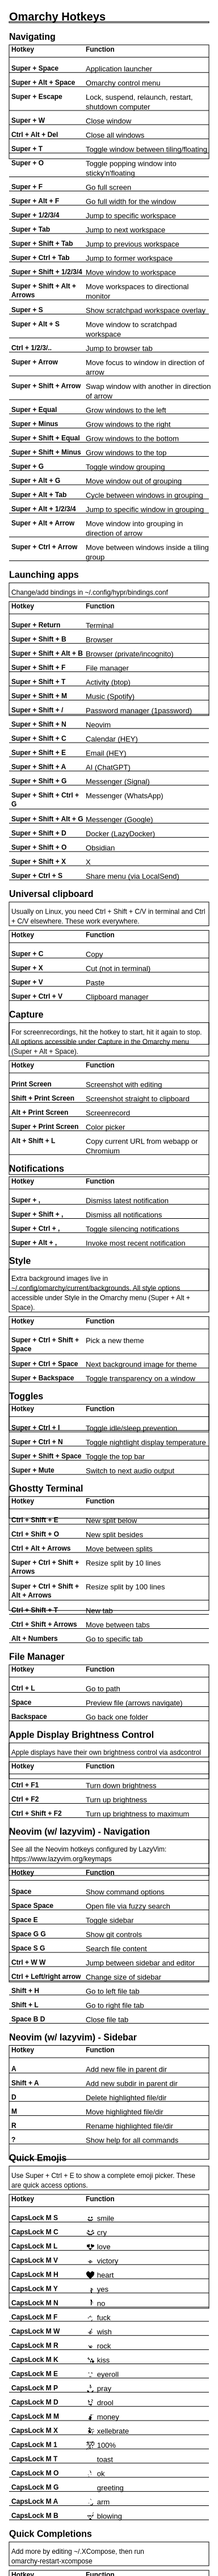
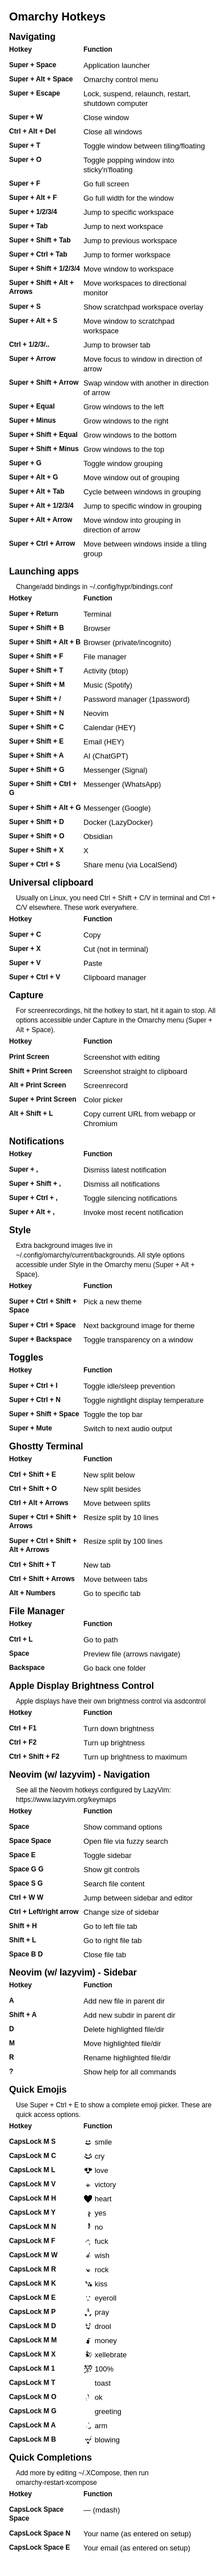
refactor: Simplify PNG layout with whitespace instead of borders
- Remove table borders and header separator lines
- Remove note box borders
- Use indentation and spacing for visual hierarchy
- Cleaner, more minimalist design while maintaining readability

Changed region(s): [[0.0312, 0.0, 0.9688, 1.0], [0.9375, 0.2182, 0.9688, 0.2806]]

diff --git a/scripts/generate-png.ts b/scripts/generate-png.ts
@@ -156,9 +156,7 @@ async function generateCheatsheetPNG(
   // Title
   renderCtx.font = `bold ${FONT_SIZE_TITLE}px ${FONT_FAMILY}`;
   renderCtx.fillText(metadata.title, PADDING, y + FONT_SIZE_TITLE);
-  y += FONT_SIZE_TITLE * LINE_HEIGHT;
-  renderCtx.strokeRect(PADDING, y - 4, contentWidth, 2);
-  y += 12;
+  y += FONT_SIZE_TITLE * LINE_HEIGHT + 12;
 
   // Sections
   for (const section of sections) {
@@ -172,23 +170,19 @@ async function generateCheatsheetPNG(
       const noteLines = wrapText(
         renderCtx,
         section.note,
-        contentWidth - 8,
+        contentWidth,
         FONT_SIZE_TEXT - 1
       );
 
-      // Draw note box
-      const noteHeight = noteLines.length * (FONT_SIZE_TEXT * LINE_HEIGHT) + 8;
-      renderCtx.strokeRect(PADDING, y, contentWidth, noteHeight);
-
-      // Draw note text
+      // Draw note text with left indent for visual hierarchy
       for (let i = 0; i < noteLines.length; i++) {
         renderCtx.fillText(
           noteLines[i],
-          PADDING + 4,
-          y + 4 + (i + 1) * FONT_SIZE_TEXT * LINE_HEIGHT
+          PADDING + 12,
+          y + (i + 1) * FONT_SIZE_TEXT * LINE_HEIGHT
         );
       }
-      y += noteHeight + 8;
+      y += noteLines.length * (FONT_SIZE_TEXT * LINE_HEIGHT) + 8;
     }
 
     if (section.hotkeys && section.hotkeys.length > 0) {
@@ -196,29 +190,15 @@ async function generateCheatsheetPNG(
       const funcColWidth = contentWidth - keyColWidth - COL_SPACING;
       const tableStartX = PADDING;
 
-      // Table border
-      const tableStartY = y;
-      renderCtx.strokeRect(
-        tableStartX,
-        tableStartY,
-        contentWidth,
-        200
-      ); // Will be fixed later
-
       // Header
       renderCtx.font = `bold ${FONT_SIZE_KEYS}px ${FONT_FAMILY}`;
-      renderCtx.fillText("Hotkey", tableStartX + 4, y + FONT_SIZE_KEYS);
+      renderCtx.fillText("Hotkey", tableStartX, y + FONT_SIZE_KEYS);
       renderCtx.fillText(
         "Function",
-        tableStartX + keyColWidth + COL_SPACING + 4,
+        tableStartX + keyColWidth + COL_SPACING,
         y + FONT_SIZE_KEYS
       );
-      y += FONT_SIZE_KEYS * LINE_HEIGHT + 6;
-      renderCtx.beginPath();
-      renderCtx.moveTo(tableStartX, y);
-      renderCtx.lineTo(tableStartX + contentWidth, y);
-      renderCtx.stroke();
-      y += 4;
+      y += FONT_SIZE_KEYS * LINE_HEIGHT + 8;
 
       // Data rows
       for (const hotkey of section.hotkeys) {
@@ -236,14 +216,14 @@ async function generateCheatsheetPNG(
         );
         const rowHeight = Math.max(keyLines.length, descLines.length) *
           FONT_SIZE_TEXT *
-          LINE_HEIGHT + 6;
+          LINE_HEIGHT + 4;
 
         renderCtx.font = `bold ${FONT_SIZE_KEYS}px ${FONT_FAMILY}`;
         for (let i = 0; i < keyLines.length; i++) {
           renderCtx.fillText(
             keyLines[i],
-            tableStartX + 4,
-            y + 4 + (i + 1) * FONT_SIZE_KEYS * LINE_HEIGHT
+            tableStartX,
+            y + (i + 1) * FONT_SIZE_KEYS * LINE_HEIGHT
           );
         }
 
@@ -251,20 +231,15 @@ async function generateCheatsheetPNG(
         for (let i = 0; i < descLines.length; i++) {
           renderCtx.fillText(
             descLines[i],
-            tableStartX + keyColWidth + COL_SPACING + 4,
-            y + 4 + (i + 1) * FONT_SIZE_TEXT * LINE_HEIGHT
+            tableStartX + keyColWidth + COL_SPACING,
+            y + (i + 1) * FONT_SIZE_TEXT * LINE_HEIGHT
           );
         }
 
-        y += rowHeight;
-        renderCtx.beginPath();
-        renderCtx.moveTo(tableStartX, y);
-        renderCtx.lineTo(tableStartX + contentWidth, y);
-        renderCtx.stroke();
-        y += 2;
+        y += rowHeight + 4;
       }
 
-      y += 12;
+      y += 8;
     }
   }
 
